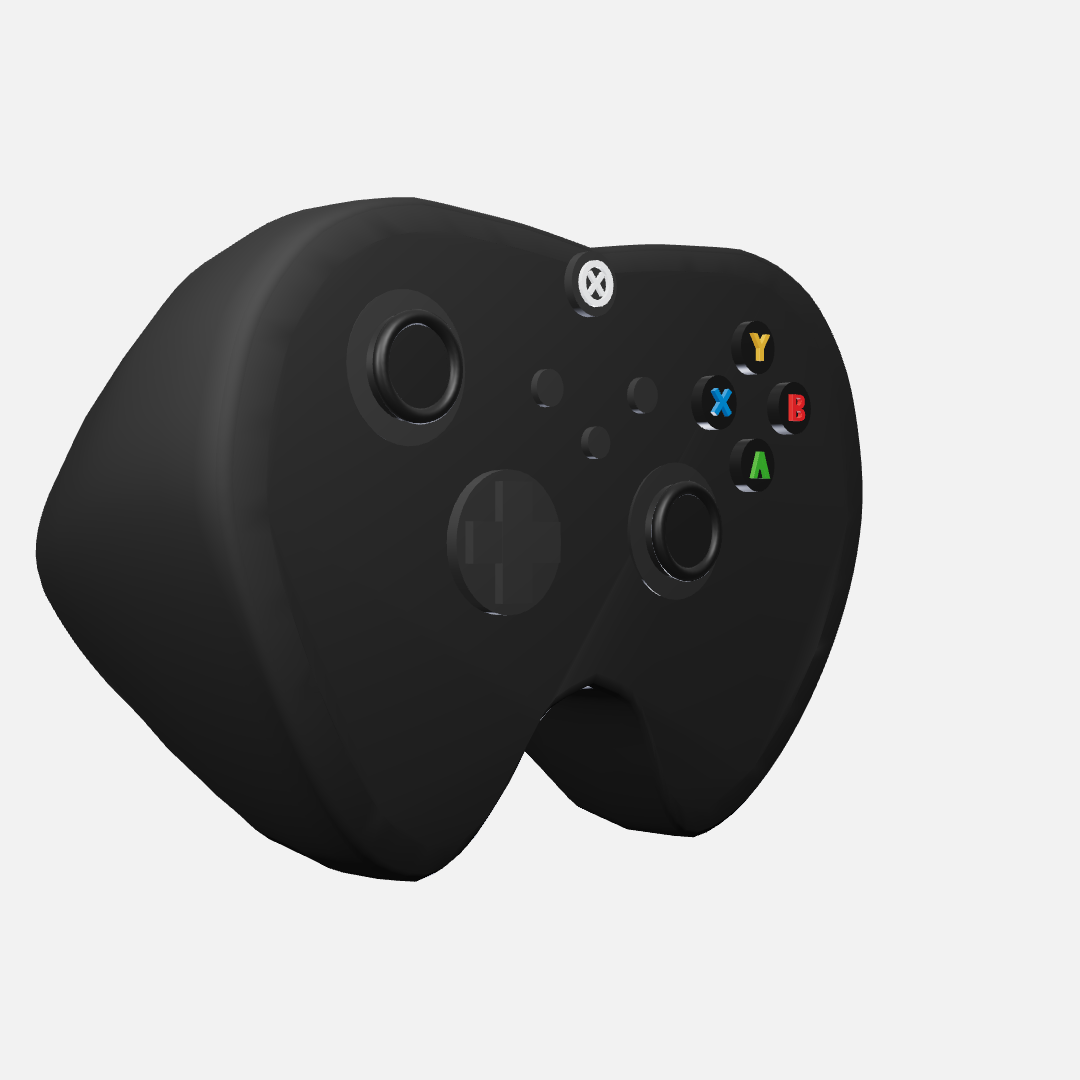
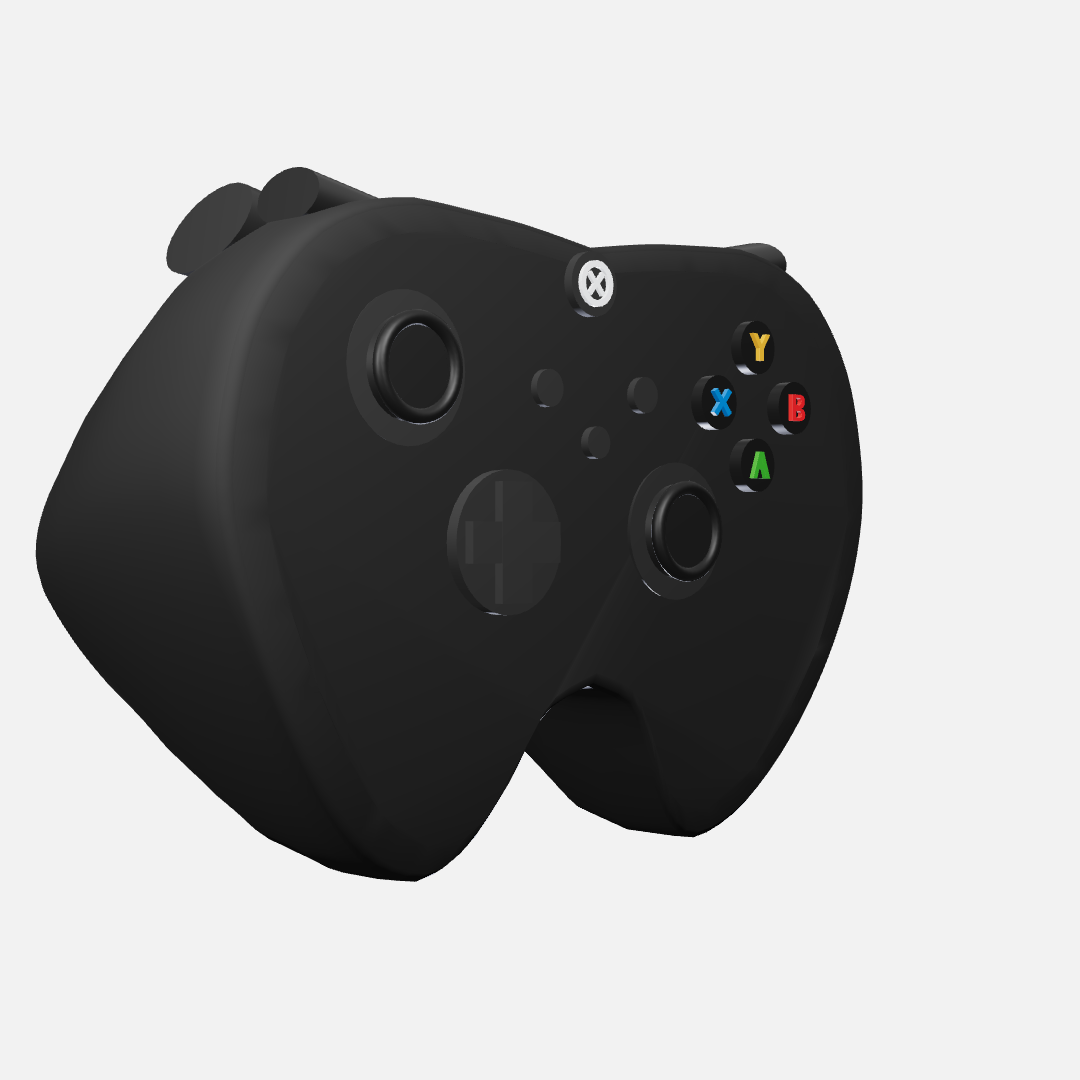
fix(gamepad): build the triggers and bumpers the model never had
The controller shipped with neither, and the reason it went unnoticed is the
point. Its own header said the triggers were "not visible in the reference" —
untrue: out/ref/gamepad2/ carries top-back.png and back.png and has all along.
A colour was allocated for a bumper (COL.bumper) that no geometry ever used.
The d-pad was built and mounted but returned only through userData, so every
gate in the repo was blind to it. Nothing was missing except a forcing
function; the knowledge was in the file, in prose, gating nothing.

Both shoulders are now built from OBJECT_CLASSES.gamepad.requiredParts, so the
loop runs over declared mounts rather than over what the author remembered.
They are rounded bars, not boxes — a count assertion is satisfied by a cube,
and a cube is what a shoulder is not.

Three faults surfaced while placing them, each caught by measurement rather
than by eye:
- scale.y on a bar laid along X squashes its LENGTH, because a cylinder's axis
  is local +Y and rotation moves it. The trigger stood on end, 30 mm tall
  instead of 12, and the class proportions rule caught it at 1.264 w/h.
- Two Euler angles on one mesh reorient the axis; the tilt moved to a wrapper.
- The body's top edge drops ~17° outward, so level bars hugged the shell at
  their inner ends and lifted clear at the outer ones — seated anchors, gate
  green, and shoulders that read as rabbit ears.

Mount heights are measured against the built shell by raycast, not guessed.
[…]

Changed region(s): [[0.1528, 0.1528, 0.3361, 0.275], [0.6722, 0.2139, 0.7333, 0.2444]]

diff --git a/src/models/gamepad/createGamepadModel.ts b/src/models/gamepad/createGamepadModel.ts
@@ -10,7 +10,8 @@ import {
 } from "three";
 import type { ModelHandles } from "../types";
 import { loftGeometry } from "../loft";
-import { BODY_SECTIONS, FACE_Z, frontOutline, gripSweep } from "./gamepadForm";
+import { BODY_SECTIONS, FACE_Z, U, frontOutline, gripSweep } from "./gamepadForm";
+import { mountPoints, partSize } from "../knowledge/objectClasses";
 import { glyphGeometry } from "../glyphs";
 import type { GlyphName } from "../glyphs";
 import type { PartsContract } from "../contract";
@@ -35,7 +36,10 @@ import type { PartsContract } from "../contract";
  * Known simplifications, deliberate:
  * - Grip texture (the fine dot pattern) is below the reference's resolution — omitted rather
  *   than invented.
- * - The back (triggers, battery hump) is absent: not visible in the reference.
+ * - The battery hump on the back is absent: it does not read at the sizes these promos use.
+ *   (An earlier version claimed the TRIGGERS were "not visible in the reference" and omitted them.
+ *   That was false — out/ref/gamepad2/ carries top-back.png and back.png. Triggers and bumpers are
+ *   now built from the class table, which is the only reason the excuse cannot recur.)
  */
 
 /** Palette. Sampled colours were lit pixels — body albedo is darkened back (see Gotchas). */
@@ -66,6 +70,13 @@ export interface GamepadModelParts
   buttonB: Group;
   buttonX: Group;
   buttonY: Group;
+  /** Declared so gates can see them — the d-pad existed but was invisible to every check. */
+  dpad: Group;
+  /** Push along -Y for a shoulder press. */
+  triggerLeft: Group;
+  triggerRight: Group;
+  bumperLeft: Group;
+  bumperRight: Group;
   /** Glows when the controller "wakes". */
   logoMaterial: MeshStandardMaterial;
   bodyMaterial: MeshStandardMaterial;
@@ -80,6 +91,7 @@ export interface GamepadModelParts
  * for why (short version: a loft-profile change once buried every part and nothing caught it).
  */
 export const GAMEPAD_CONTRACT: PartsContract = {
+  classId: "gamepad",
   required: ["leftStick", "rightStick", "buttonA", "buttonB", "buttonX", "buttonY"],
   layout: [
     // ABXY diamond
@@ -158,6 +170,11 @@ export const createGamepadModel = (
     roughness: 0.4,
     metalness: 0.1,
   });
+  const bumperMaterial = new MeshStandardMaterial({
+    color: new Color(COL.bumper),
+    roughness: 0.5,
+    metalness: 0.08,
+  });
   const logoMaterial = new MeshStandardMaterial({
     color: new Color(COL.logo),
     roughness: 0.35,
@@ -232,6 +249,76 @@ export const createGamepadModel = (
   dpad.add(armV);
   mount(dpad, -0.59, -0.01, 0.02);
 
+  // ── shoulders: triggers and bumpers, built FROM the class table ───────────
+  // This loop runs over the class's declared mount points, not over what the author remembered —
+  // which is the entire reason the section exists. The previous model had neither part, and its
+  // own header explained that the triggers were "not visible in the reference" while all five
+  // reference views, top-back among them, sat in out/ref/gamepad2/ the whole time. A colour was
+  // even allocated for a bumper nobody built. A class entry cannot be talked out of a part it
+  // declares: leaving one out now means deleting a mount point, which is a visible edit.
+  //
+  // Both are rounded bars rather than boxes. A count assertion is satisfied by a cube, and a cube
+  // is exactly what a controller's shoulder is not.
+  const bar = (
+    name: string,
+    size: { width?: number; height?: number; depth?: number },
+    material: MeshStandardMaterial,
+    taper: number,
+    tiltX = 0,
+    roll = 0,
+  ): Group => {
+    const w = size.width ?? 0.5;
+    const h = size.height ?? 0.3;
+    const d = size.depth ?? 0.3;
+    const r = d / 2;
+    const mesh = new Mesh(new CylinderGeometry(r, r * taper, w, 24), material);
+    // A cylinder's axis is its LOCAL +Y. Rotating 90° about Z lays that axis along world X, so the
+    // bar's length runs left-right. After that rotation local X maps to world Y — which is why the
+    // squash below is on `.x` and not the obvious `.y`: scaling local Y would shorten the bar
+    // instead of flattening it.
+    // The extra `roll` follows the shoulder's slope. The body's top edge drops about 17° between
+    // x = 0.95 and x = 1.63, so a level bar hugs the shell at its inner end and lifts clear of it
+    // at the outer one — which is exactly how the first attempt read: shoulders as rabbit ears.
+    // The surface check never fired, because it measures the ANCHOR and the anchor was seated.
+    mesh.rotation.z = Math.PI / 2 + roll;
+    mesh.scale.x = h / d;
+    mesh.name = name;
+    // The tilt goes on a WRAPPER, not on the mesh. Two Euler angles on one object compose in a
+    // fixed order and quietly reorient the axis — measured: the trigger stood on end and reported
+    // 30 mm of height where it should have had 12, which the class proportions rule then caught.
+    const g = new Group();
+    g.rotation.x = tiltX;
+    g.add(mesh);
+    return g;
+  };
+
+  /** Downward slope of the body's top edge, radians — shoulders are laid along it, not level. */
+  const SHOULDER_SLOPE = 0.2;
+  const side = (i: number): string => (i === 0 ? "Left" : "Right");
+  const triggerSize = partSize("gamepad", "trigger", U);
+  const triggers = mountPoints("gamepad", "trigger", U).map((p, i) => {
+    const g = new Group();
+    // Laid back over the shoulder rather than standing up on it. On a head-on view of a real
+    // controller the triggers are barely visible — they hide behind the top edge — so a trigger
+    // that adds height is a trigger in the wrong place. The class proportions rule caught the
+    // first attempt at 1.264 w/h against a range of 1.3–1.6.
+    g.add(bar(`Trigger${side(i)}`, triggerSize, trimMaterial, 0.82, -0.3, SHOULDER_SLOPE * Math.sign(p[0])));
+    g.position.set(...p);
+    g.name = `Trigger${side(i)}`;
+    root.add(g);
+    return g;
+  });
+
+  const bumperSize = partSize("gamepad", "bumper", U);
+  const bumpers = mountPoints("gamepad", "bumper", U).map((p, i) => {
+    const g = new Group();
+    g.add(bar(`Bumper${side(i)}`, bumperSize, bumperMaterial, 1, 0, SHOULDER_SLOPE * Math.sign(p[0])));
+    g.position.set(...p);
+    g.name = `Bumper${side(i)}`;
+    root.add(g);
+    return g;
+  });
+
   // ── ABXY: black button + coloured insert (glyphs need a texture — see header) ──
   const faceButton = (tint: number, letter: GlyphName): Group => {
     const g = new Group();
@@ -290,6 +377,11 @@ export const createGamepadModel = (
   const parts: GamepadModelParts = {
     leftStick,
     rightStick,
+    dpad,
+    triggerLeft: triggers[0],
+    triggerRight: triggers[1],
+    bumperLeft: bumpers[0],
+    bumperRight: bumpers[1],
     buttonA,
     buttonB,
     buttonX,

diff --git a/src/models/gamepad/createGamepadModel.test.ts b/src/models/gamepad/createGamepadModel.test.ts
@@ -70,10 +70,50 @@ describe("createGamepadModel", () => {
     expect(violations.some((v) => v.kind === "asymmetry")).toBe(true);
   });
 
-  it("mounts every part on the face, none buried", () => {
+  it("mounts every FACE part on the face, none buried", () => {
+    // Scoped to the front-face parts on purpose. This test used to sweep every part along +Z, and
+    // that hardcoded axis was the very assumption that broke when the controller gained shoulders:
+    // a trigger sits on the TOP face, so a +Z ray from it hits the face plate and reports it
+    // buried. checkPartsContract now takes each part's mounting axis from its class entry; a test
+    // that pins one axis for the whole model would keep asserting the old, wrong model of reality.
     const { group, parts } = createGamepadModel();
-    const report = checkPartsOnSurface(group, object3dParts(parts), new Vector3(0, 0, 1));
+    const face = Object.fromEntries(
+      Object.entries(object3dParts(parts)).filter(([k]) => !/^(trigger|bumper)/.test(k)),
+    );
+    const report = checkPartsOnSurface(group, face, new Vector3(0, 0, 1));
     expect(report.filter((r) => r.buried).map((r) => r.part)).toEqual([]);
+  });
+
+  it("has the parts its CLASS requires, not merely the ones the author remembered", () => {
+    // The failure this exists for: the controller shipped with no triggers and no bumpers, while
+    // its own header explained they were "not visible in the reference" — untrue, all five views
+    // were on disk. `required` below could not catch it, because the author writes that list too.
+    const { group, parts } = createGamepadModel();
+    expect(checkPartsContract(group, object3dParts(parts), GAMEPAD_CONTRACT)).toEqual([]);
+  });
+
+  it("fails when a class-required part is dropped", () => {
+    // A gate nobody has watched fire is a gate nobody knows works.
+    const { group, parts } = createGamepadModel();
+    const stripped = Object.fromEntries(
+      Object.entries(object3dParts(parts)).filter(([k]) => k !== "triggerRight"),
+    );
+    const violations = checkPartsContract(group, stripped, GAMEPAD_CONTRACT);
+    const undercount = violations.find((v) => v.kind === "under-count");
+    expect(undercount).toBeDefined();
+    // The message must carry the source, so the fix does not depend on remembering where 2 came from.
+    expect(undercount!.detail).toContain("2 × trigger");
+    expect(undercount!.detail).toContain("wikipedia");
+  });
+
+  it("fails when a required part is moved off its declared face", () => {
+    // A count assertion alone is satisfied by two meshes named triggerLeft/triggerRight sitting
+    // anywhere at all — including inside the shell. The face has to be geometric to mean anything.
+    const { group, parts } = createGamepadModel();
+    const p = object3dParts(parts);
+    p.triggerRight.position.set(0, -0.2, 0); // into the middle of the body
+    const violations = checkPartsContract(group, p, GAMEPAD_CONTRACT);
+    expect(violations.some((v) => v.kind === "wrong-face")).toBe(true);
   });
 
   it("takes a brand accent through options rather than hardcoding one", () => {